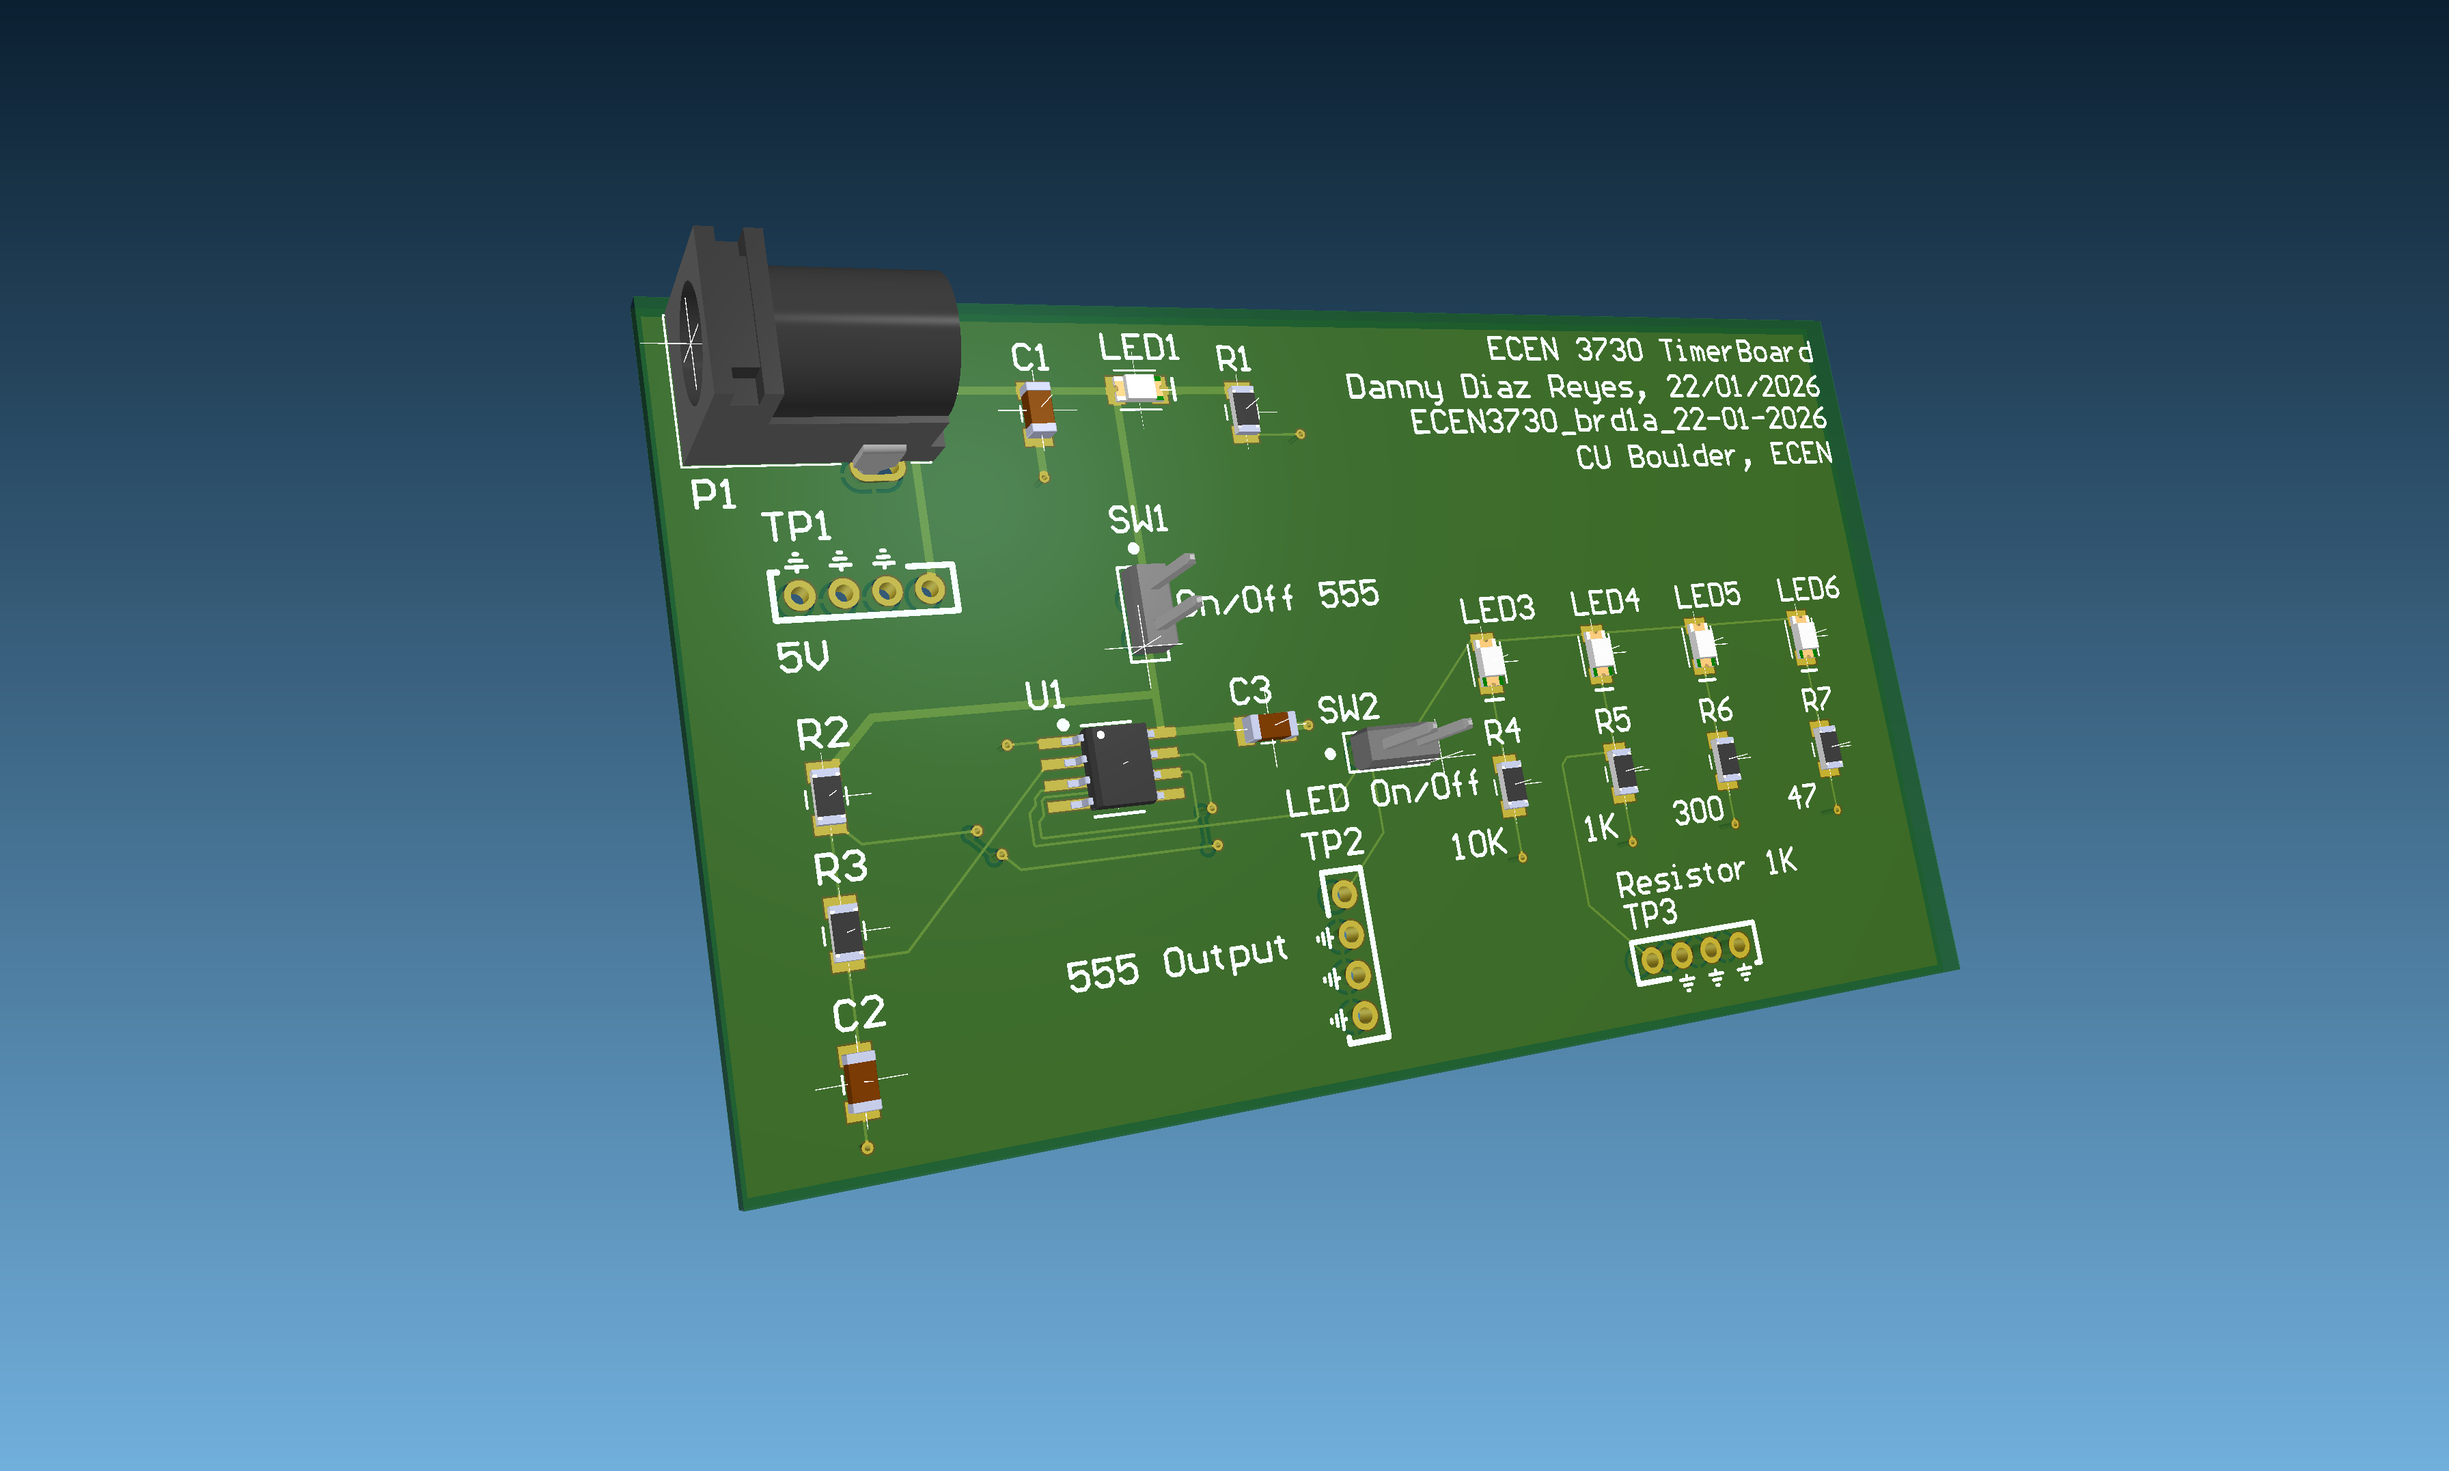
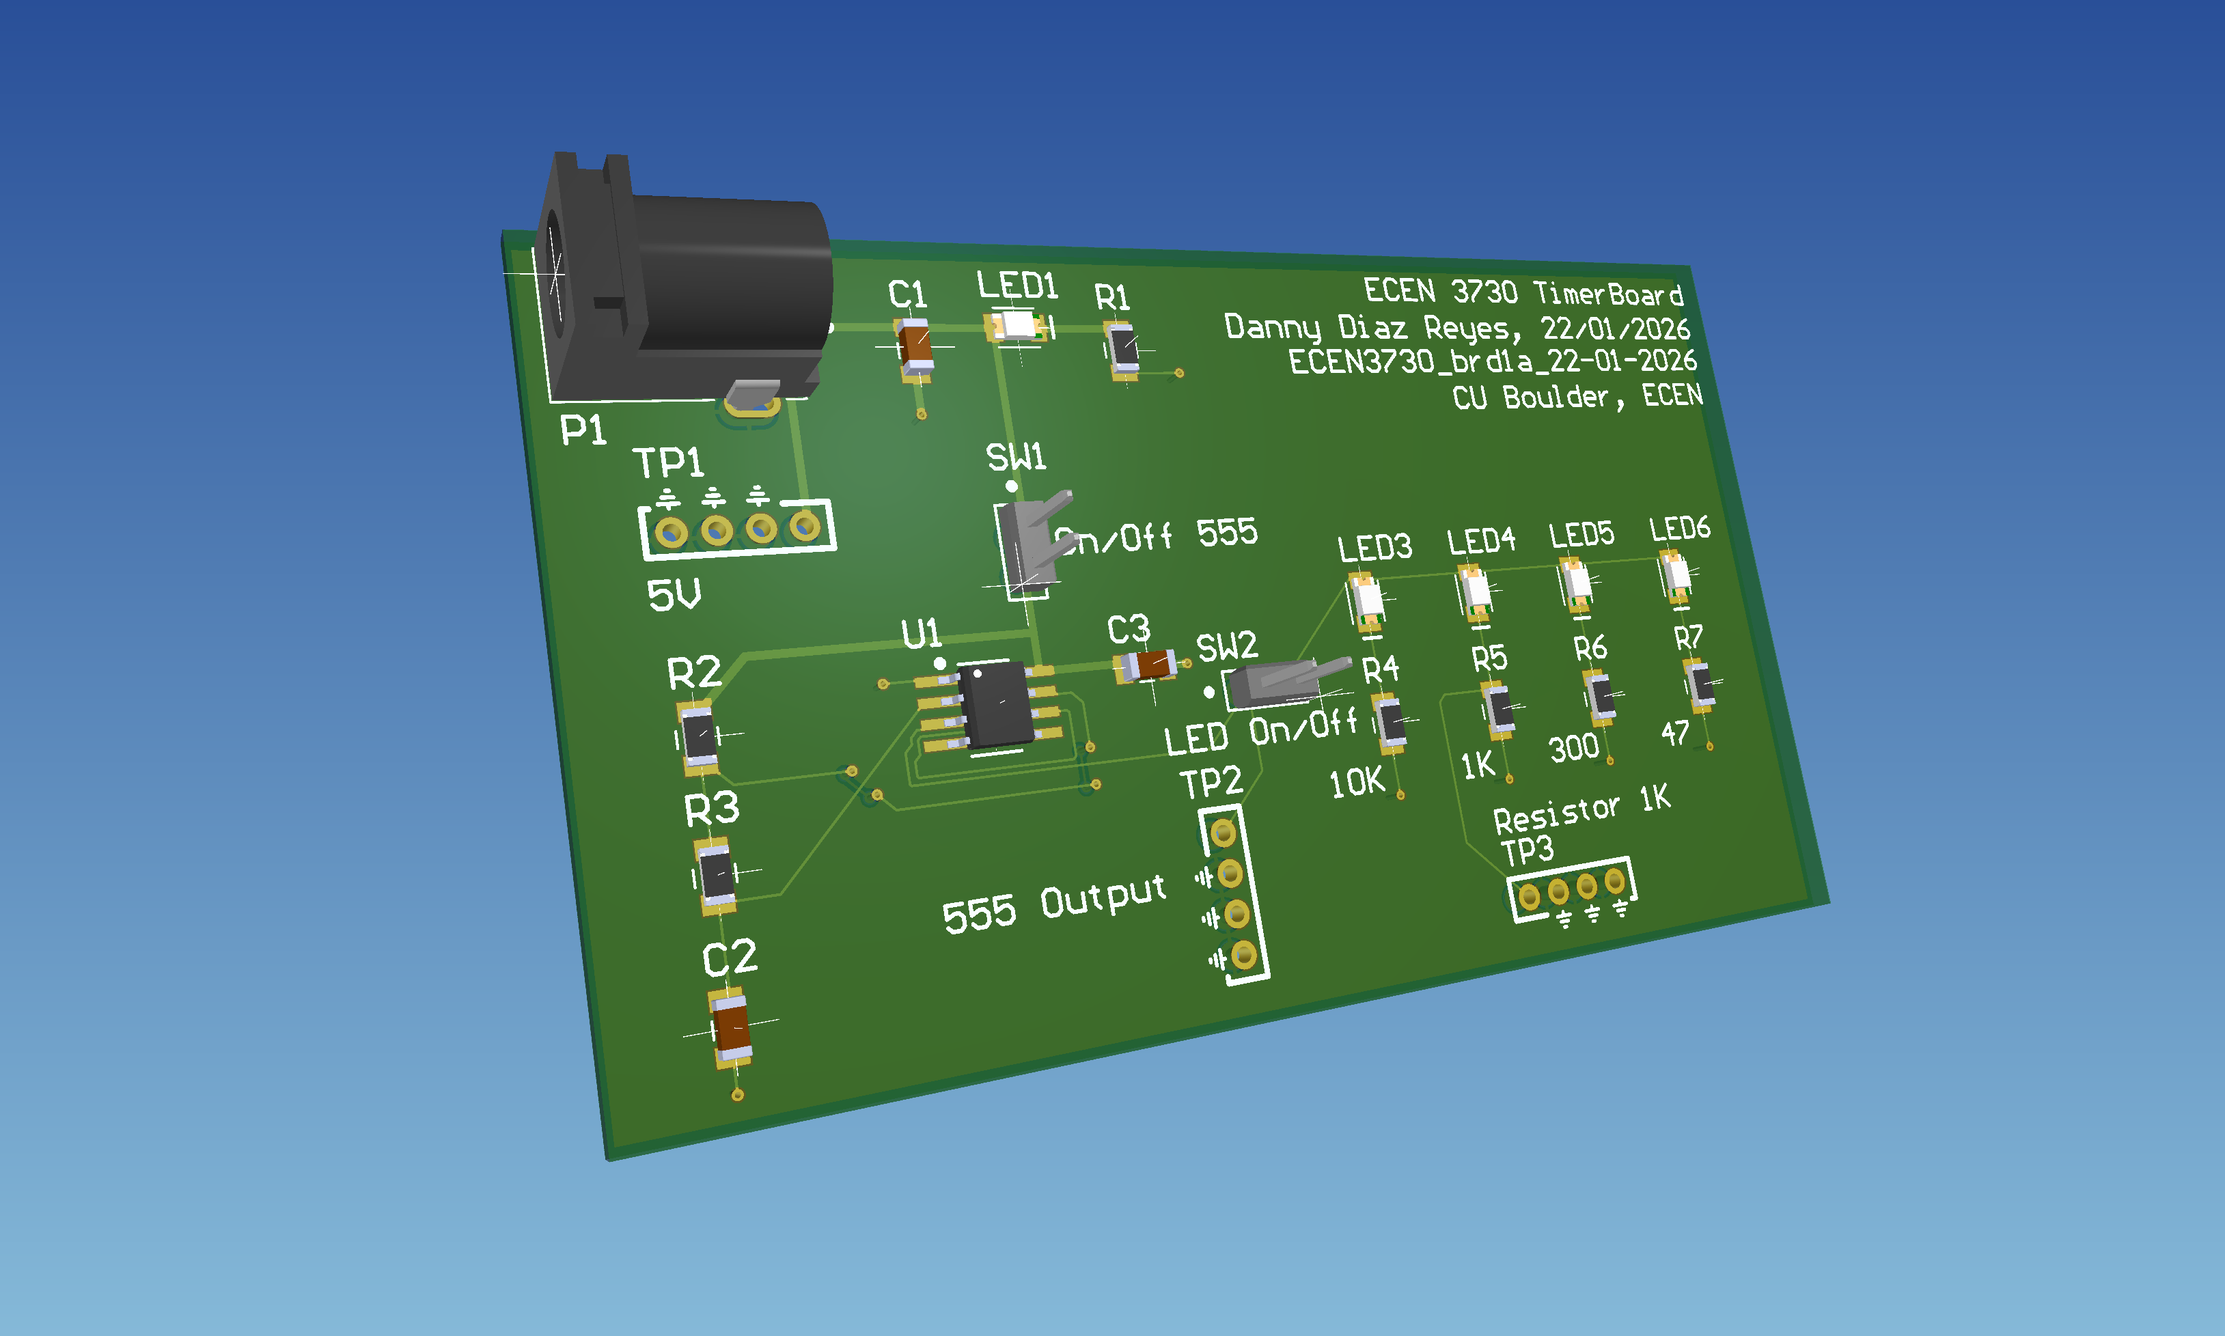
Board 1 Changes

diff --git a/_pcbs/board-1.md b/_pcbs/board-1.md
@@ -5,7 +5,7 @@ summary: >
   Designed and assembled a 5 V NE555 astable timer board targeting about
   500 Hz. Oscilloscope measurements verified frequency, switching noise,
   rise time, and output behavior under LED loads.
-image: /assets/board-1-3.png
+image: /assets/board-1.png
 image_alt: "Illustrative rendering of NE555 timer PCB"
 report: /documents/Board-1-Report.pdf
 ---
